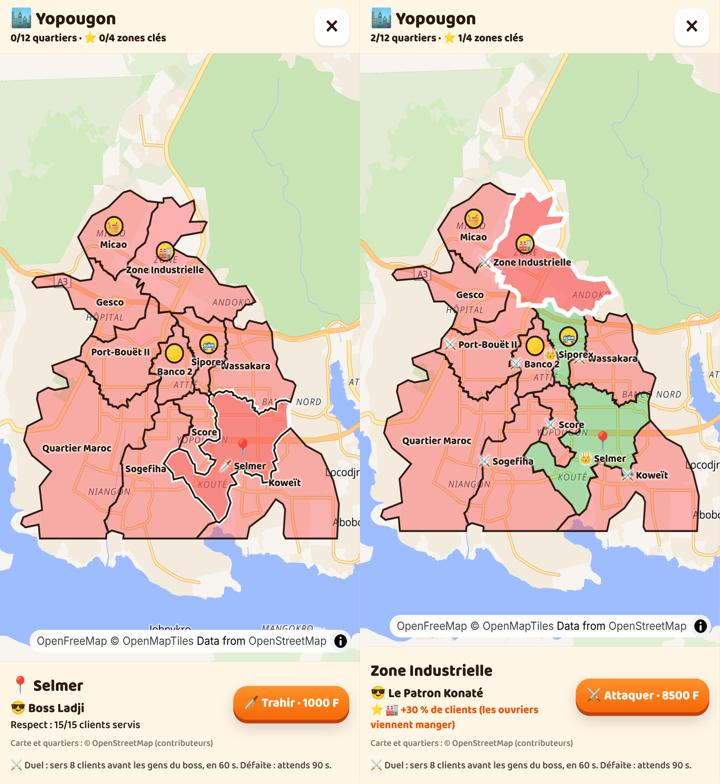
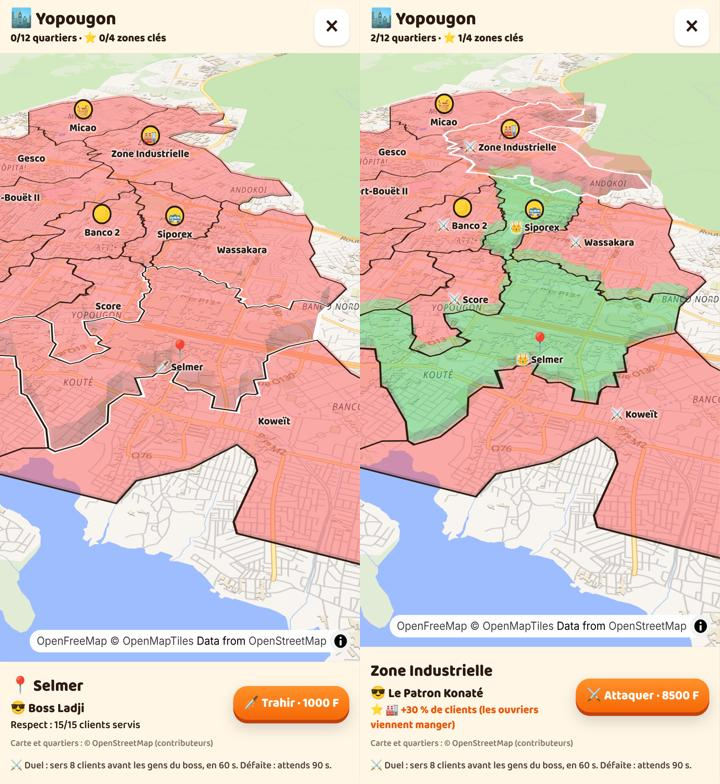
Carte des quartiers en 3D : caméra inclinée, quartiers en relief (les tiens plus hauts), bâtiments en relief
Claude-Session: https://claude.ai/code/session_01KFciWeXU4vd2AfokCb8FgL

diff --git a/web/src/arcade/RealMap.tsx b/web/src/arcade/RealMap.tsx
@@ -46,11 +46,14 @@ export function RealMap({ place, owners, selected, onPick }: { place: PlaceId; o
     ;(async () => {
       const opts = {
         container: box.current!,
-        bounds: [geo.bounds[0], geo.bounds[1], geo.bounds[2], geo.bounds[3]],
-        fitBoundsOptions: { padding: 24 },
+        // close enough to see the relief: centred on your maquis' district, the rest just around
+        center: geo.features[0].properties.label,
+        zoom: 13.1,
         attributionControl: { compact: true },
-        dragRotate: false,
-        pitchWithRotate: false,
+        // 3D: the camera is tilted and a little turned, you can rotate / tilt with two fingers
+        pitch: 55,
+        bearing: -18,
+        maxPitch: 70,
       }
       let m: AnyMap
       if (TOKEN) {
@@ -69,13 +72,33 @@ export function RealMap({ place, owners, selected, onPick }: { place: PlaceId; o
       map.current = m
       m.on('load', () => {
         m.addSource('districts', { type: 'geojson', data: geo })
+        // real buildings in relief (OpenFreeMap: « openmaptiles », Mapbox streets: « composite »)
+        const bsrc = TOKEN ? 'composite' : 'openmaptiles'
+        const h = TOKEN ? ['coalesce', ['get', 'height'], 8] : ['coalesce', ['get', 'render_height'], 8]
+        try {
+          m.addLayer({ id: 'b3d', type: 'fill-extrusion', source: bsrc, 'source-layer': 'building', minzoom: 12.5, paint: { 'fill-extrusion-color': '#efe3cf', 'fill-extrusion-height': h, 'fill-extrusion-opacity': 0.85 } })
+        } catch {
+          /* style without buildings */
+        }
+        // the districts as raised slabs: yours higher, the one you tapped higher still
+        m.addLayer({ id: 'd-fill', type: 'fill', source: 'districts', paint: { 'fill-color': ['case', ['get', 'mine'], '#40c057', '#fa5252'], 'fill-opacity': 0.18 } })
         m.addLayer({
-          id: 'd-fill',
-          type: 'fill',
+          id: 'd-3d',
+          type: 'fill-extrusion',
           source: 'districts',
-          paint: { 'fill-color': ['case', ['get', 'mine'], '#40c057', '#fa5252'], 'fill-opacity': ['case', ['get', 'sel'], 0.65, 0.42] },
+          paint: {
+            'fill-extrusion-color': ['case', ['get', 'mine'], '#40c057', '#fa5252'],
+            'fill-extrusion-height': ['case', ['get', 'sel'], 260, ['get', 'mine'], 130, 35],
+            'fill-extrusion-opacity': 0.38,
+            'fill-extrusion-vertical-gradient': true,
+          },
         })
         m.addLayer({ id: 'd-line', type: 'line', source: 'districts', paint: { 'line-color': ['case', ['get', 'sel'], '#ffffff', '#2b1a12'], 'line-width': ['case', ['get', 'sel'], 5, 2] } })
+        const click = (e: { features?: { properties: { i: number } }[] }) => {
+          const f = e.features?.[0]
+          if (f) pick.current(Number(f.properties.i))
+        }
+        m.on('click', 'd-3d', click)
         m.on('click', 'd-fill', (e: { features?: { properties: { i: number } }[] }) => {
           const f = e.features?.[0]
           if (f) pick.current(Number(f.properties.i))
